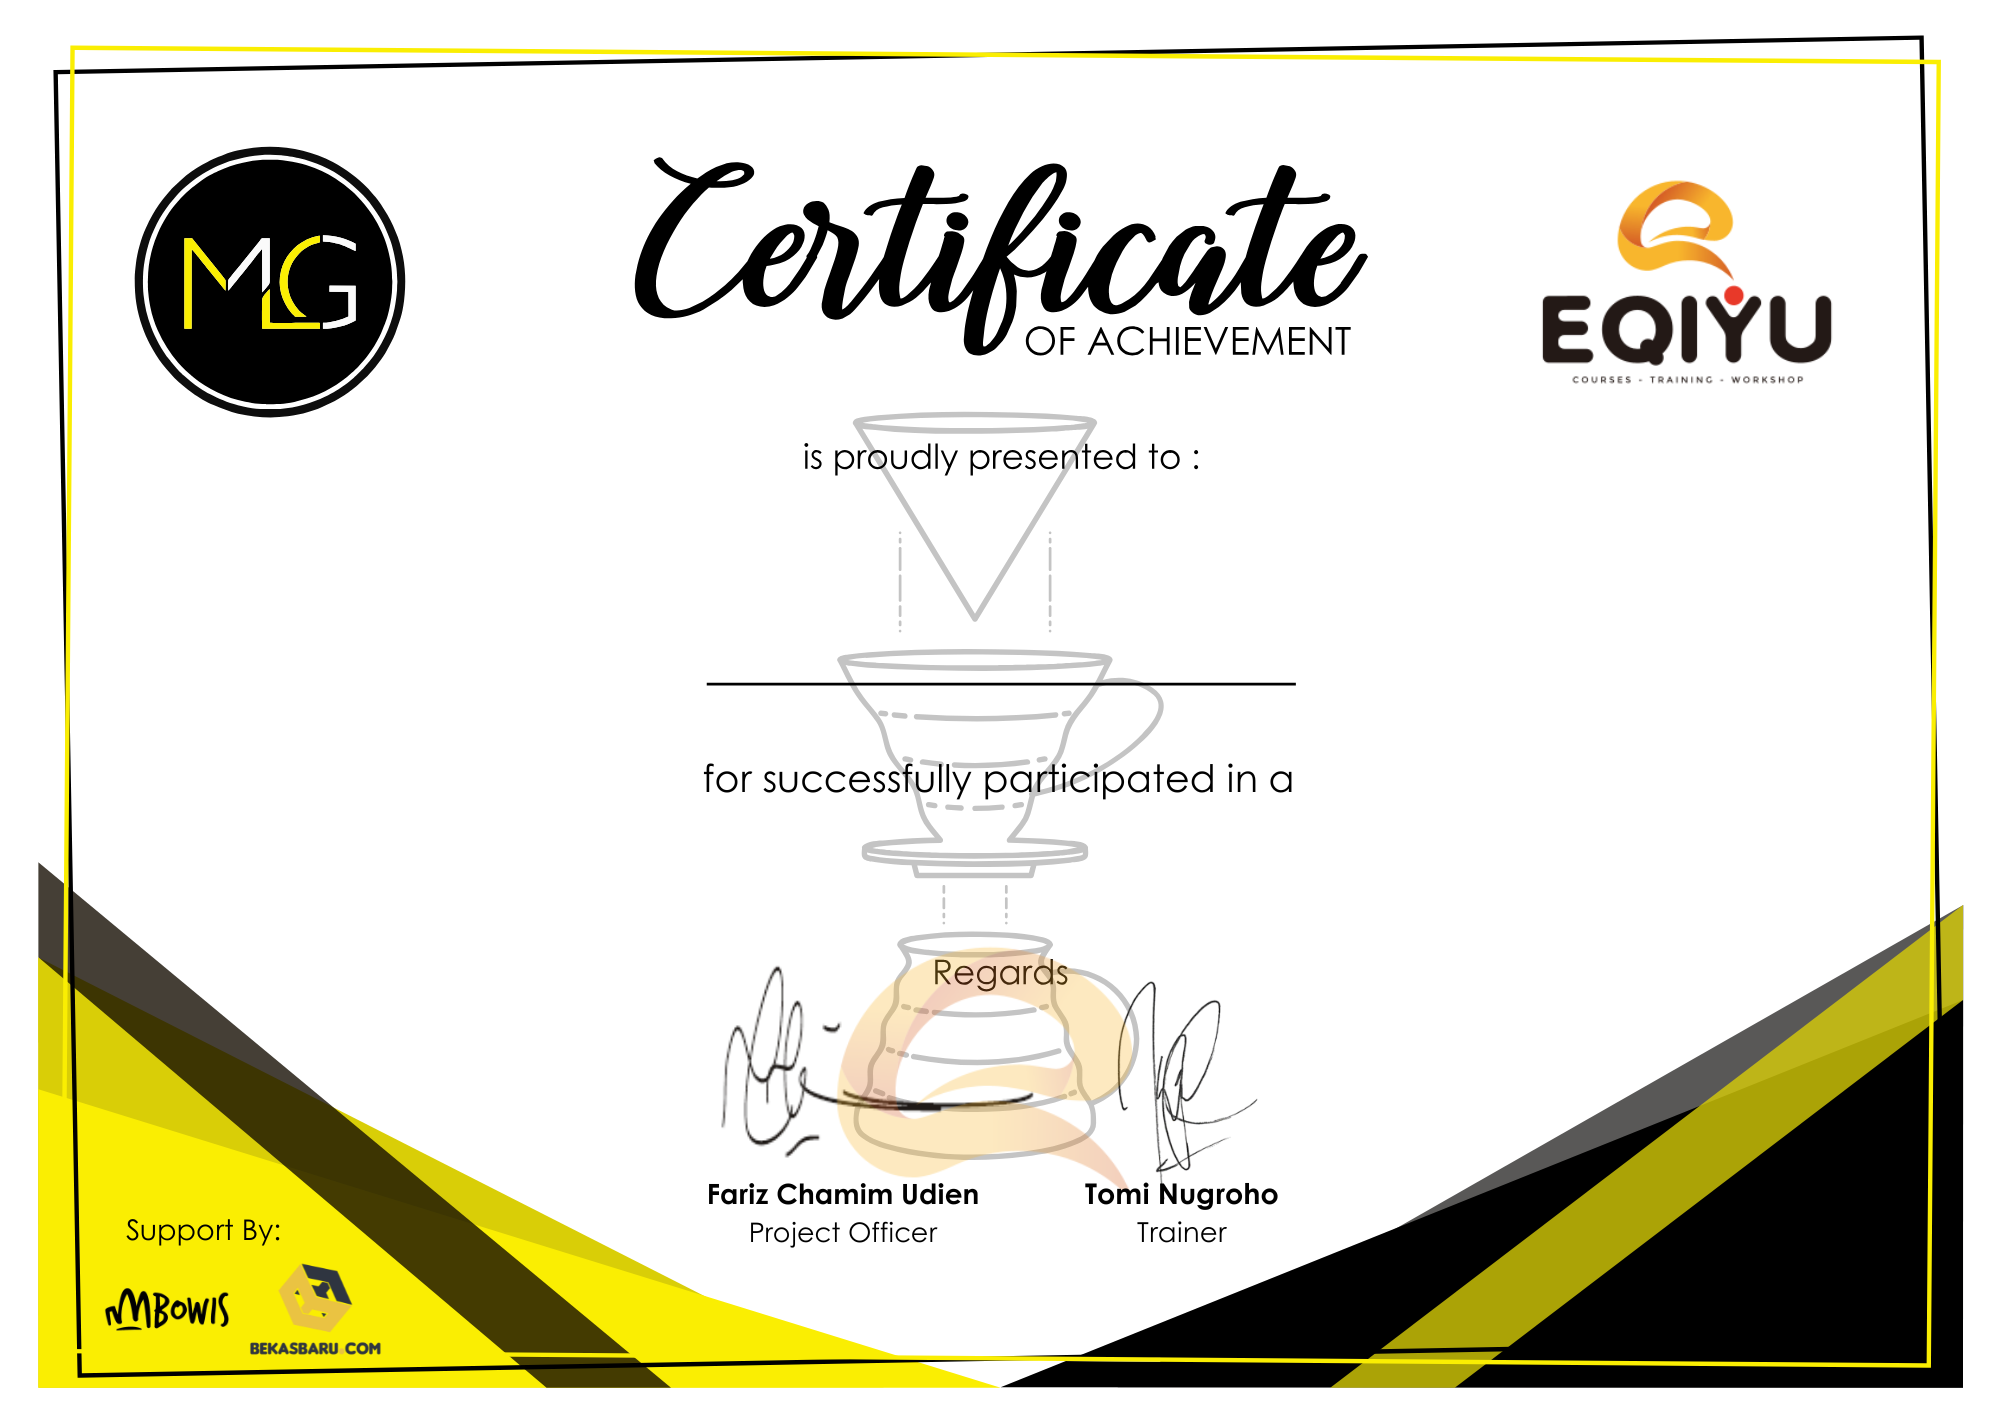
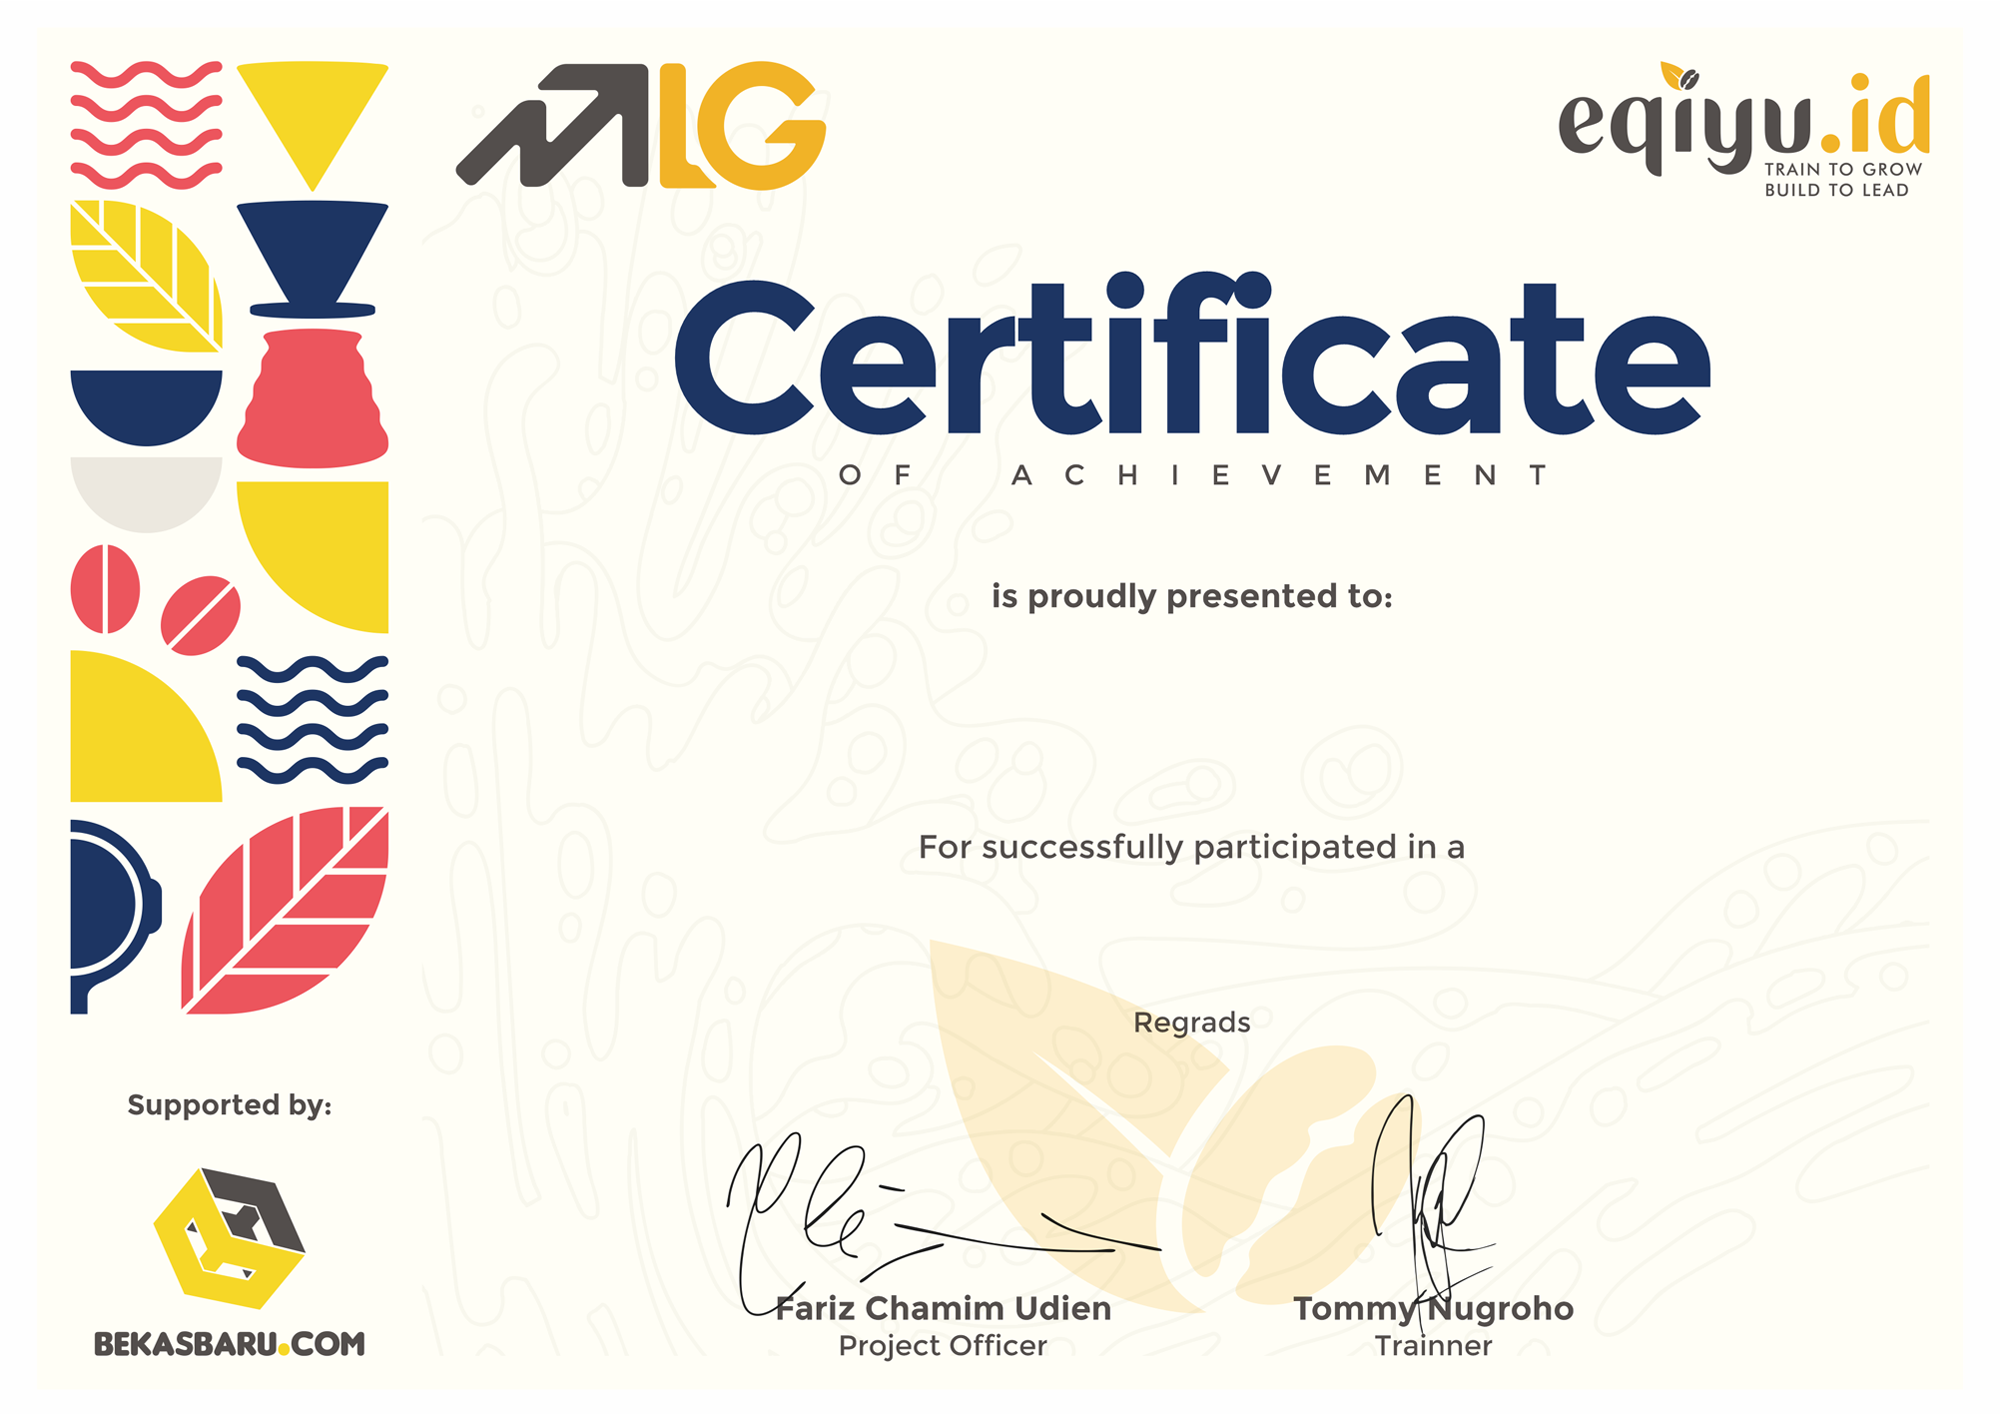
style(certificate): adjust certificate layout and styling
- Update recipient name and class positioning in view_certificate
- Modify certificate number styling with rotation
- Refine PDF certificate layout with precise measurements

diff --git a/app/Views/admin/sertifikat/pdf_certificate.php b/app/Views/admin/sertifikat/pdf_certificate.php
@@ -14,18 +14,10 @@
             position: relative;
         }
         .bg-img { position: absolute; top: 0; left: 0; width: 100%; height: 100%; object-fit: cover; z-index: 1; }
-        .content {
-            text-align: center;
-            position: absolute;
-            top: 50%;
-            left: 50%;
-            transform: translate(-50%, -50%);
-            width: 80%;
-            z-index: 2;
-        }
-        .recipient { font-size: 35px; font-weight: 700; text-transform: uppercase; margin: 60px 0 80px; }
-        .kelas { font-size: 22px; font-weight: 600; text-transform: uppercase; margin: 50px 0; }
-        .number { position: absolute; bottom: 40px; right: 50px; font-size: 16px; color: #ffffff !important; z-index: 3; }
+        .content { position: absolute; top: 52mm; left: 0; right: 0; z-index: 2; }
+        .recipient { font-size: 10mm; font-weight: 700; text-transform: uppercase; text-align: center; margin: 47mm 0 6mm 70mm; color: #000; }
+        .kelas { font-size: 6mm; font-weight: 600; text-align: center; text-transform: uppercase; margin: 16mm 0 0 56mm; color: #000; }
+        .number { position: absolute; bottom: 5.6mm; right: 15.6mm; font-size: 5.8mm; color: #000; z-index: 3; display: inline-block; transform: rotate(90deg); transform-origin: bottom right; }
     </style>
     <?php $d = $data ?? []; ?>
     </head>

diff --git a/app/Views/admin/sertifikat/view_certificate.php b/app/Views/admin/sertifikat/view_certificate.php
@@ -25,12 +25,12 @@
         }
         .certificate-content { text-align: center; margin: 200px 0; }
         .recipient-name {
-            font-size: 60px; color: #000; margin: 70px 0 20px;
+            font-size: 50px; color: #000; margin: 120px 0 20px 220px;
             font-family: 'Teko', sans-serif; text-transform: uppercase;
             display: inline-block; padding: 0 50px 5px;
         }
-        .certificate-class { font-size: 24px; font-weight: bold; text-transform: uppercase; margin: 20px 0; color: #000; }
-        .certificate-number { position: absolute; bottom: 40px; right: 20px; font-size: 18px; font-family: 'Rubik', sans-serif; color: #fff; }
+        .certificate-class { font-size: 24px; font-weight: bold; text-transform: uppercase; margin: 20px 0 0 210px; color: #000; }
+        .certificate-number { position: absolute; bottom: 15px; right: 35px; font-size: 22px; font-weight: bold; font-family: 'Rubik', sans-serif; color: #000; display: inline-block; transform: rotate(90deg); transform-origin: bottom right; }
         .download-button { position: fixed; bottom: 20px; right: 20px; z-index: 1000; }
         @media print { body { background: none; } .certificate-container { box-shadow: none; margin: 0; padding: 40px; } .download-button { display: none; } }
     </style>
